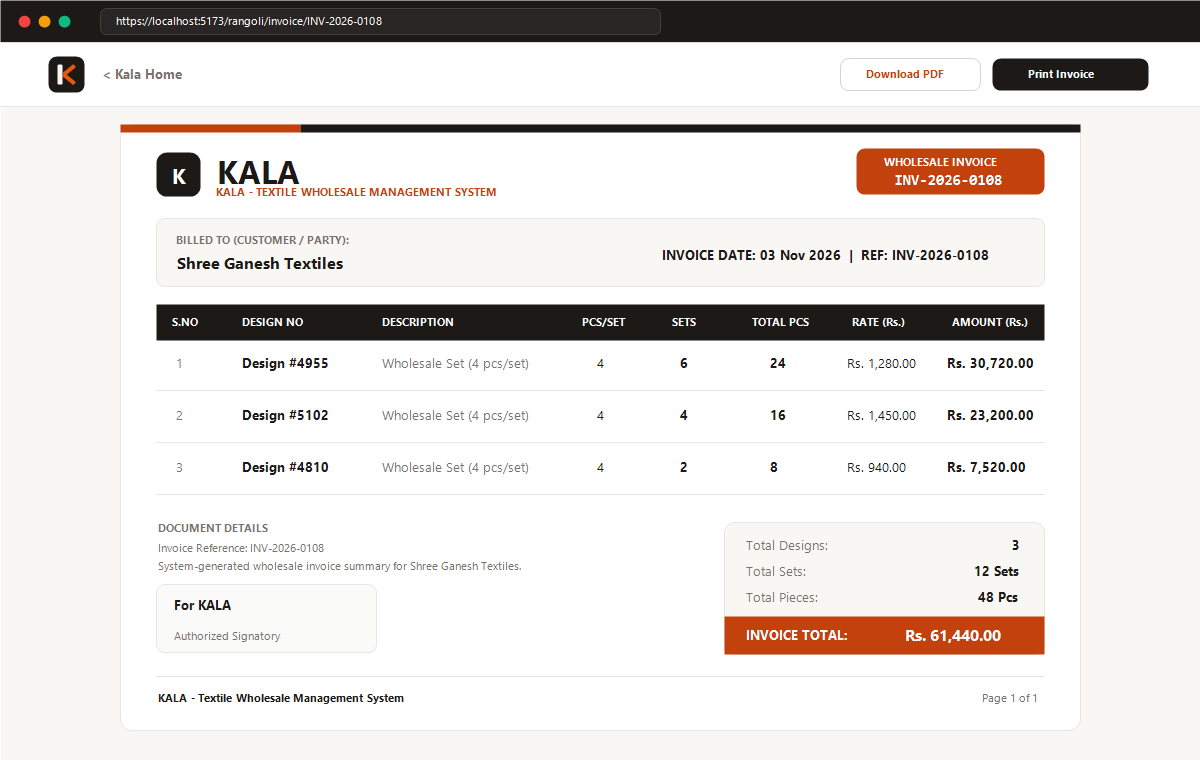
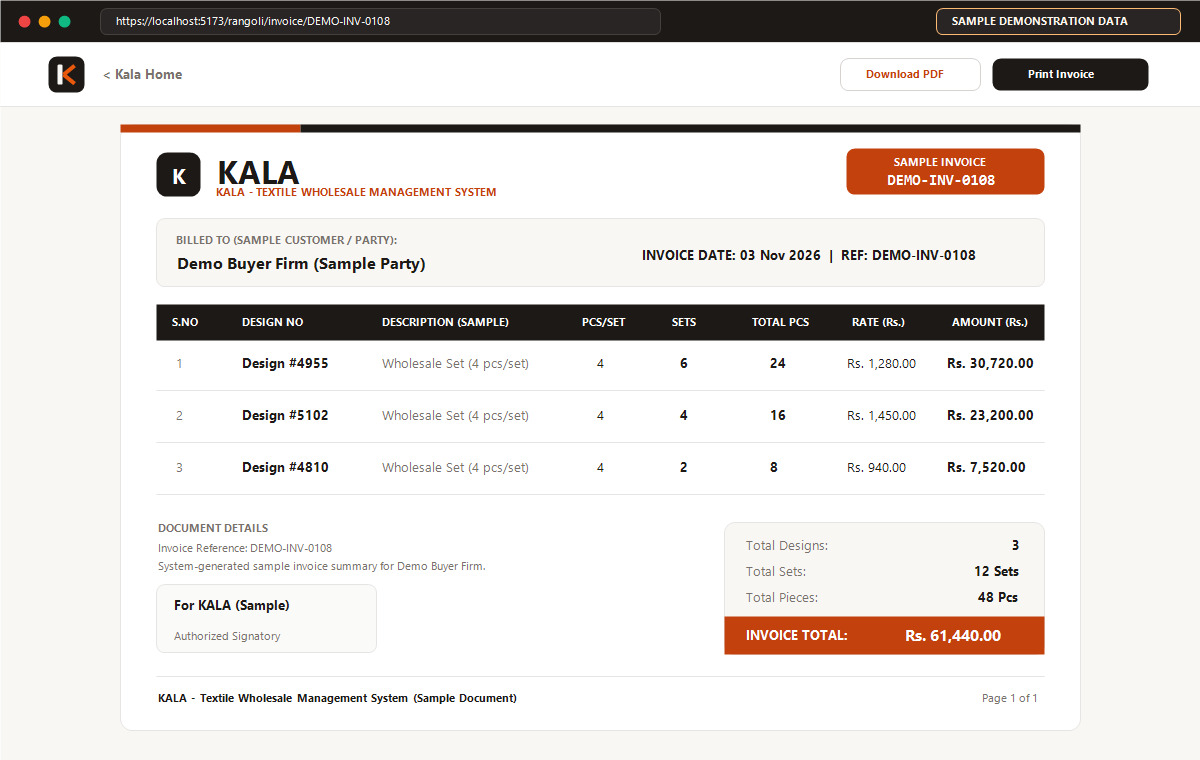
docs(repo): update repository URLs to 404Vardan/kala-textiles and mark screenshots as sample demo data

diff --git a/README.md b/README.md
@@ -14,7 +14,7 @@
 [![PostgreSQL](https://img.shields.io/badge/PostgreSQL-Transactional_RPCs-1C1917?style=flat-square&logo=postgresql&logoColor=4169E1)](https://www.postgresql.org/)
 [![Capacitor](https://img.shields.io/badge/Capacitor-8.2_Android-1C1917?style=flat-square&logo=capacitor&logoColor=119EFF)](https://capacitorjs.com/)
 [![License](https://img.shields.io/badge/License-All_Rights_Reserved-C2410C?style=flat-square)](LICENSE)
-[![GitHub](https://img.shields.io/badge/GitHub-404Vardan%2Frangoli---1C1917?style=flat-square&logo=github&logoColor=FFFFFF)](https://github.com/404Vardan/rangoli-)
+[![GitHub](https://img.shields.io/badge/GitHub-404Vardan%2Fkala--textiles-1C1917?style=flat-square&logo=github&logoColor=FFFFFF)](https://github.com/404Vardan/kala-textiles)
 
 [System Specification](docs/SPEC.md) · [Architecture Guide](docs/ARCHITECTURE.md) · [Contributing Guide](docs/CONTRIBUTING.md) · [Supabase Setup](SUPABASE_SETUP.md)
 
@@ -72,6 +72,9 @@ Traditional wholesale textile showrooms and godowns face recurring operational b
 
 ## 5. Application Screenshots
 
+> [!NOTE]
+> **Demonstration Data Notice:** All customer/party names (`Demo Buyer Firm`), phone numbers (`+91 90000 00000`), design codes, stock counts, and order/invoice numbers (`DEMO-2026-0042`, `DEMO-INV-0108`) shown in the screenshots below are synthetic demonstration data created solely to illustrate the application interface.
+
 | **1. Public Landing Page (`/`)** | **2. Public QR Product Page (`/:slug/p/:designNo`)** |
 | :---: | :---: |
 | ![Kala Landing Page](docs/assets/screenshots/landing-page.png) | ![Kala Product QR Page](docs/assets/screenshots/product-page.png) |
@@ -81,10 +84,10 @@ Traditional wholesale textile showrooms and godowns face recurring operational b
 | *Multi-design order request review with **Send to Shop** (`submit_order_request` RPC) and **Send on WhatsApp**.* | *Real-time KPIs across Active Catalog, Godown Stock, Shop Floor Stock, Confirmed Orders, and Stock Movements.* |
 | **5. Multi-Location Inventory (`/admin?tab=stock`)** | **6. Wholesale Order Form & PDF (`/:slug/order/:orderNo`)** |
 | ![Inventory Management](docs/assets/screenshots/inventory-management.png) | ![Wholesale Order Form](docs/assets/screenshots/order-form.png) |
-| *Dual-location ledger (**Godown Warehouse** vs **Shop Floor**) with transactional inward intake and transfers.* | *Print-ready A4 wholesale order sheet (`RNG-2026-0042`) with vector KALA header and set/piece totals.* |
+| *Dual-location ledger (**Godown Warehouse** vs **Shop Floor**) with transactional inward intake and transfers.* | *Print-ready A4 wholesale order sheet (`DEMO-2026-0042`) with vector KALA header and set/piece totals.* |
 | **7. Wholesale Invoice PDF (`/:slug/invoice/:invoiceNo`)** | **8. Staff Floor Scanner (`/staff`)** |
 | ![Wholesale Invoice PDF](docs/assets/screenshots/invoice-pdf.png) | ![Staff Floor Scanner](docs/assets/screenshots/staff-scanner.png) |
-| *Kala-branded A4 wholesale invoice (`INV-2026-0108`) with itemized set breakdown and signatory block.* | *Mobile terminal with camera QR recognition, live Godown/Shop stock check, and shared draft order bar.* |
+| *Kala-branded A4 wholesale invoice (`DEMO-INV-0108`) with itemized set breakdown and signatory block.* | *Mobile terminal with camera QR recognition, live Godown/Shop stock check, and shared draft order bar.* |
 
 ---
 
@@ -309,8 +312,8 @@ kala-textiles/
 1. **Clone the repository:**
 
    ```bash
-   git clone https://github.com/404Vardan/rangoli-.git
-   cd rangoli-
+   git clone https://github.com/404Vardan/kala-textiles.git
+   cd kala-textiles
    ```
 
 2. **Install dependencies:**
@@ -417,7 +420,7 @@ This repository and its source code, database migrations, branding assets, and d
 
 ## 16. Author & Project Credits
 
-- **Repository:** [github.com/404Vardan/rangoli-](https://github.com/404Vardan/rangoli-)
+- **Repository:** [github.com/404Vardan/kala-textiles](https://github.com/404Vardan/kala-textiles)
 - **Maintainer:** [@404Vardan](https://github.com/404Vardan)
 - **Domain:** Commercial Textile Wholesale & Multi-Location Inventory Operations
 

diff --git a/docs/CONTRIBUTING.md b/docs/CONTRIBUTING.md
@@ -17,8 +17,8 @@ Thank you for your interest in contributing to **Kala — Textile Wholesale Mana
 1. Fork and clone the repository:
 
    ```bash
-   git clone https://github.com/404Vardan/rangoli-.git
-   cd rangoli-
+   git clone https://github.com/404Vardan/kala-textiles.git
+   cd kala-textiles
    ```
 
 2. Install dependencies:
